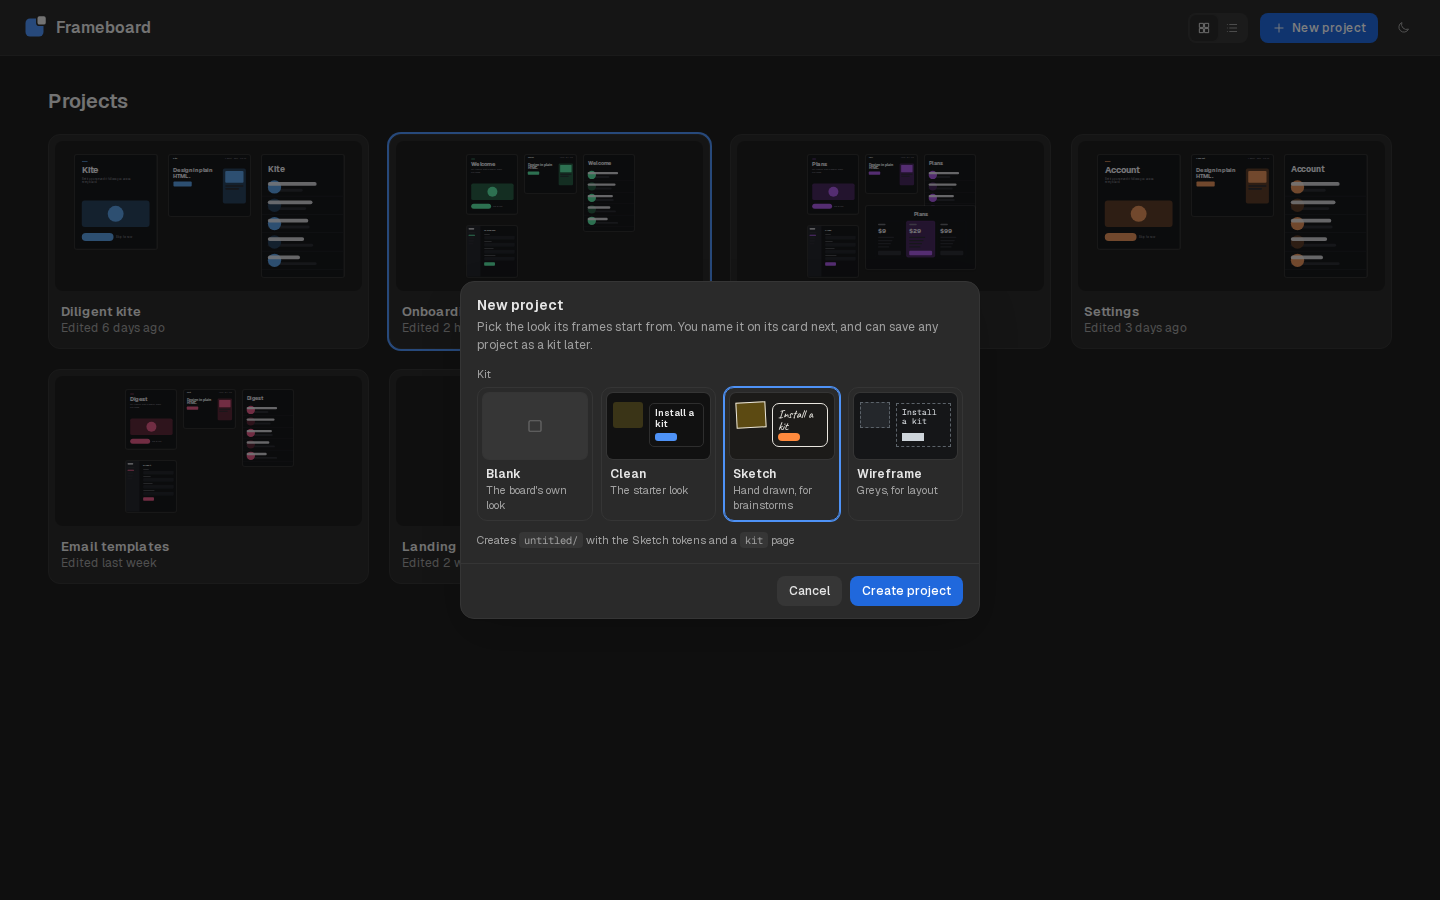
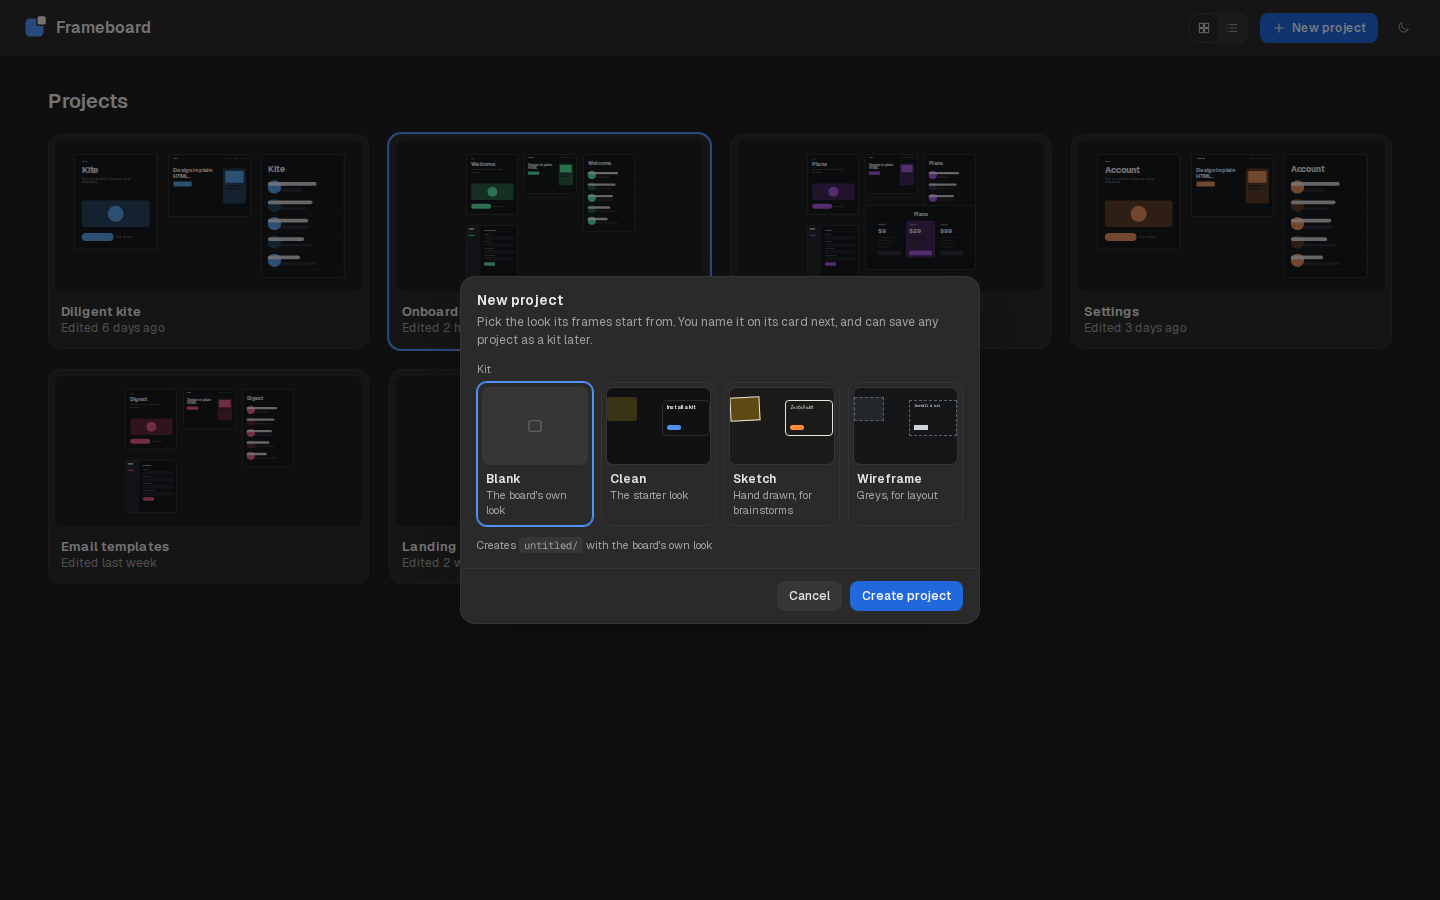
docs(design): redraw New project's kits as built, opening on Blank

diff --git a/canon/design/home/new-project-kit.html b/canon/design/home/new-project-kit.html
@@ -1498,7 +1498,7 @@
       }
       .kit .pv {
         position: relative;
-        height: 66px;
+        height: 76px;
         border-radius: 6px;
         overflow: hidden;
         box-shadow: 0 0 0 1px var(--border);
@@ -1521,26 +1521,26 @@
         font-style: normal;
       }
       .pv .n {
-        left: 6px;
+        left: 0;
         top: 9px;
         width: 30px;
-        height: 26px;
+        height: 24px;
       }
       .pv .c {
-        left: 42px;
-        top: 10px;
-        right: 6px;
-        height: 44px;
-        padding: 4px 5px;
-        font-size: 9px;
+        left: 55px;
+        top: 12px;
+        width: 48px;
+        height: 36px;
+        padding: 3px 4px;
+        font-size: 5px;
         line-height: 1.2;
       }
       .pv .c em {
         position: absolute;
-        left: 5px;
+        left: 4px;
         bottom: 5px;
-        width: 22px;
-        height: 8px;
+        width: 14px;
+        height: 5px;
       }
       .pv.blank {
         background: var(--raised);
@@ -1557,10 +1557,10 @@
         transform: rotate(-3deg);
       }
       .pv.sketch .c {
-        border: 1.5px solid #1e1e1e;
-        border-radius: 7px;
+        border: 1px solid #1e1e1e;
+        border-radius: 4px;
         font:
-          12px/1 Caveat,
+          6px/1 Caveat,
           cursive;
         color: #1e1e1e;
       }
@@ -1595,7 +1595,7 @@
       .pv.wire .c {
         border: 1px dashed #adb5bd;
         font:
-          8px/1.2 'Geist Mono',
+          4px/1.2 'Geist Mono',
           monospace;
         color: #343a40;
       }
@@ -8638,7 +8638,7 @@
         <div class="body">
           <span class="lab">Kit</span>
           <div class="kits">
-            <div class="kit">
+            <div class="kit on">
               <div class="pv blank">
                 <svg
                   width="18"
@@ -8659,7 +8659,7 @@
               </div>
               <b>Clean</b><span>The starter look</span>
             </div>
-            <div class="kit on">
+            <div class="kit">
               <div class="pv sketch">
                 <i class="n"></i><i class="c">Install a kit<em></em></i>
               </div>
@@ -8673,8 +8673,7 @@
             </div>
           </div>
           <div class="writes">
-            Creates <code>untitled/</code> with the Sketch tokens and a
-            <code>kit</code> page
+            Creates <code>untitled/</code> with the board&#39;s own look
           </div>
         </div>
         <div class="foot">
